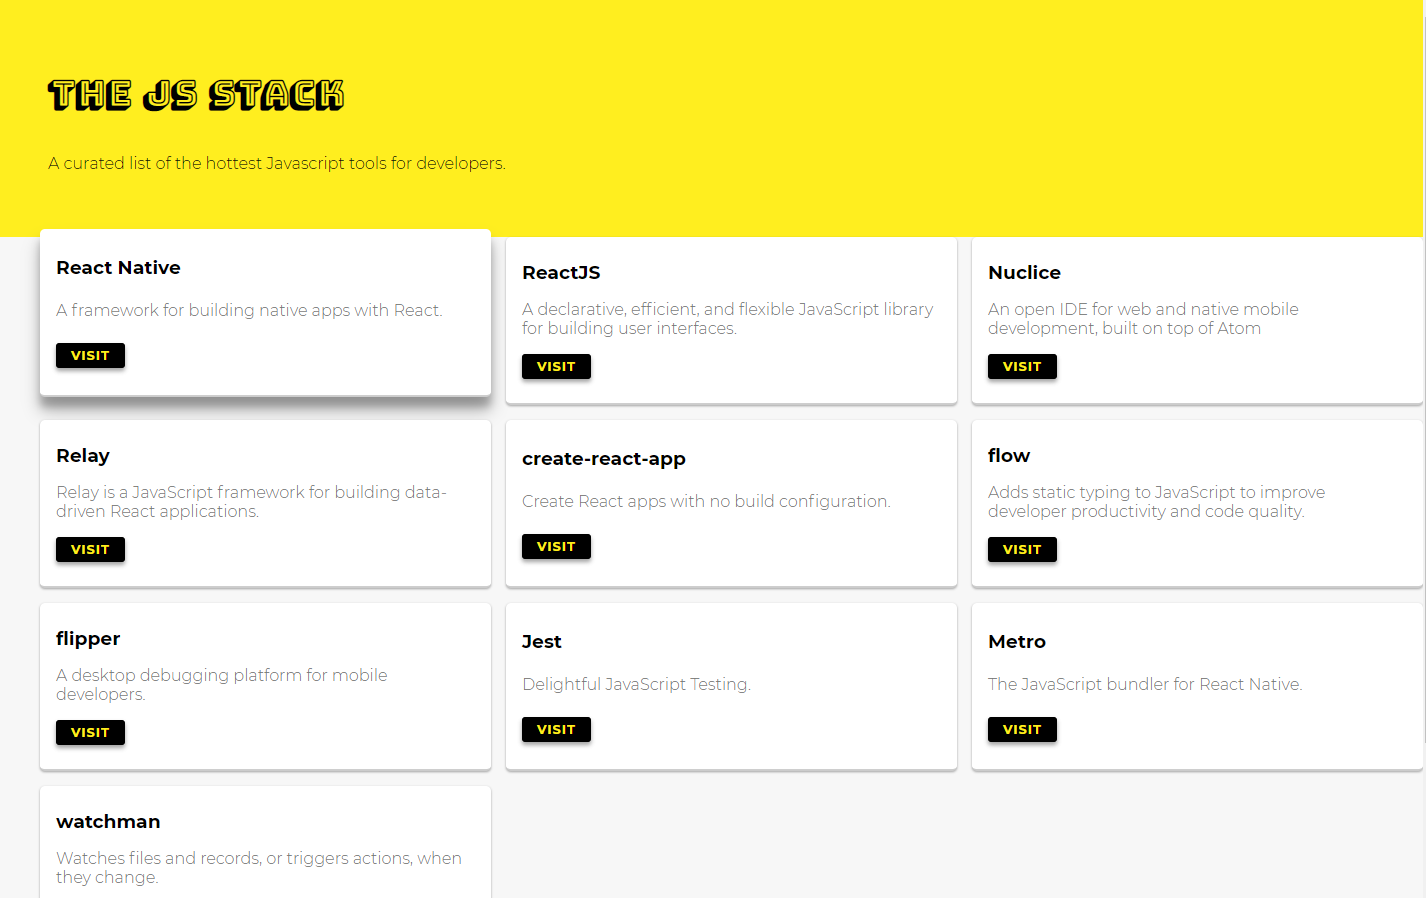
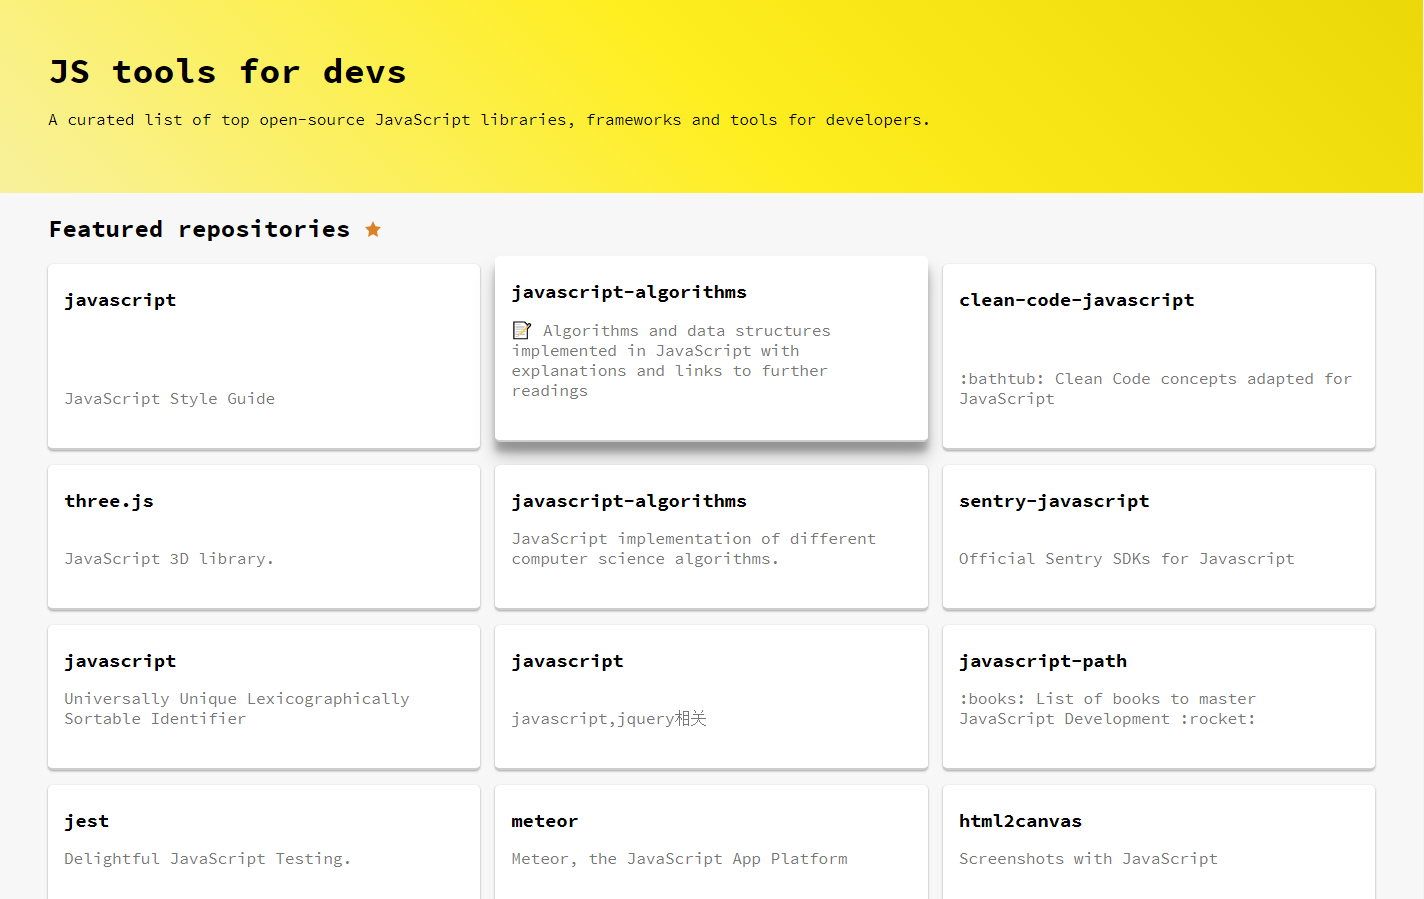
new packages, updated read.me and project image

diff --git a/src/components/RepositoriesList/Repository/index.js b/src/components/RepositoriesList/Repository/index.js
@@ -6,14 +6,30 @@ export default  class Repository extends Component {
     
     constructor(props) {
         super(props)
+        this.copyGitUrl = this.copyGitUrl.bind(this)
         this.showModal = this.showModal.bind(this)
         this.state = {
-            showModal: false
+            showModal: false,
+            copied: false
         }
     }
 
     showModal = () => {
         this.setState({ showModal: true })
+    }
+
+    copyGitUrl = () => {
+        const git_url = document.querySelector('#gitUrlClipboard')
+        let inputHidden = document.createElement('input')
+        inputHidden.value = git_url.innerText
+        document.body.appendChild(inputHidden)
+        inputHidden.select();
+        document.execCommand('copy');
+        document.body.removeChild(inputHidden);
+        this.setState({
+            copied: true
+        })
+
     }
 
     render() {
@@ -24,10 +40,11 @@ export default  class Repository extends Component {
                     <div className="dialog-container">
                         <h3 className="repo-name"><img className="repo-avatar" src={avatar_url} alt='User Avatar' />{full_name}</h3>
                         <p className="repo-description">{description}</p>
-                        <input type="text" value={git_url} /> 
+                        <span id="gitUrlClipboard" className="repo-git_url">{git_url} </span>
+                        <span className="copy-clipboard"><a href={git_url} onClick={this.copyGitUrl}><Icon icon="clipboard" marginLeft={12} style={{marginTop: '10px', position: 'relative', top: '0'}} color="muted" /> {this.state.copied ? 'Copied!' : 'Copy'}</a></span>
                         <ul className="repo-stats">
                             <li className="repo-stat">
-                                <span><Icon icon="star" color="warning" /> {stargazers_count} stars</span>
+                                <span><Icon icon="star" color="muted" /> {stargazers_count} stars</span>
                             </li>
                             <li className="repo-stat">
                                 <span><Icon icon="fork" color="muted" />  {forks_count} forks</span>
@@ -36,7 +53,7 @@ export default  class Repository extends Component {
                                 <span><Icon icon="issue-closed" color="muted" />  {open_issues_count} open issues</span>
                             </li>
                         </ul>
-                        <a className="repo-link" href={html_url}>GitHub repository</a>
+                        <a className="repo-link" target="_blank" href={html_url}>GitHub repository</a>
                     </div>
                 </Dialog>
                 <li className="repo-item" onClick={this.showModal}>

diff --git a/src/App.css b/src/App.css
@@ -25,7 +25,10 @@ body {
   font-weight: 300;
 }
 
-
+i {
+  position: relative;
+  bottom: 0px;
+}
 .container {
   padding: 0 3em;
 }
@@ -41,7 +44,7 @@ body {
 }
 
 .header h1 {
-  font-family: 'Bungee Shade', display;
+  font-family: 'Source Code Pro', monospace;
   font-weight: 700;  
   font-size: 2.2em;
   margin: 0;
@@ -105,8 +108,6 @@ body {
   box-shadow: 0 14px 28px rgba(0,0,0,0.25), 0 10px 10px rgba(0,0,0,0.22);
 }
 
-
-
 .dialog-container .repo-avatar {
   padding: 0;
   vertical-align: middle;
@@ -123,12 +124,16 @@ body {
   letter-spacing: 1px;
   cursor: pointer;
   font-size: .8em;
-  margin: 10px 0;
+  margin: 10px 0 20px 0;
   padding: 10px 15px;
   text-decoration: none;
   text-transform: uppercase;
   border-radius: 3px;
   box-shadow: 0 3px 6px rgba(0,0,0,0.16), 0 3px 6px rgba(0,0,0,0.23);
+}
+
+.dialog-container .repo-description {
+  margin-bottom: 30px;
 }
 
 .dialog-container .repo-stats {
@@ -147,9 +152,15 @@ body {
 
 .dialog-container .repo-git_url {
   padding: .7em;
-  margin: 10px 0; 
-  border: 2px solid #B5B5B5;
+  margin-top: 20px;
+  color: #777;
+  box-shadow: 0 3px 6px rgba(0,0,0,0.16), 0 3px 6px rgba(0,0,0,0.23);
   border-radius: 3px;
+}
+
+.dialog-container .copy-clipboard a {
+  color: #777;
+  text-decoration: none;
 }
 
 .pagination {

diff --git a/src/components/RepositoriesList/index.js b/src/components/RepositoriesList/index.js
@@ -2,7 +2,7 @@ import React, { Component } from 'react'
 import api from '../../services/api'
 import Repository from './Repository/index'
 import Pagination from "react-js-pagination"
-
+import { Icon } from 'evergreen-ui'
 
 export default class RepositoriesList extends Component {
 
@@ -49,7 +49,7 @@ export default class RepositoriesList extends Component {
     render() {
         return (
             <div className="container">
-                <h2>Featured repositories</h2> 
+                <h2>Featured repositories <Icon icon="star" color="warning" /></h2>
                 <ul className="repoList">
                     {
                         this.state.repos.map(repo => (

diff --git a/src/components/Header/index.js b/src/components/Header/index.js
@@ -5,8 +5,8 @@ const Header = () => {
         <React.Fragment>
            <header className="header">
               <div className="branding"> 
-                <h1>Tools for JS devs</h1>
-                <p>A curated list of top JavaScript tools for developers.</p>
+                <h1>JS tools for devs</h1>
+                <p>A curated list of top open-source JavaScript libraries, frameworks and tools for developers.</p>
               </div>
            </header> 
         </React.Fragment>

diff --git a/public/index.html b/public/index.html
@@ -19,7 +19,7 @@
       work correctly both with client-side routing and a non-root public URL.
       Learn how to configure a non-root public URL by running `npm run build`.
     -->
-    <title>Tools for JS devs.</title>
+    <title>JS tools for devs</title>
   </head>
   <body>
     <noscript>

diff --git a/README.md b/README.md
@@ -1,29 +1,30 @@
-# The JS Stack
+# JS tools for devs
 
-![the js stack homepage](https://github.com/matheuseabra/the-js-stack/blob/master/docs/homepage.png)
+![the js-tools-for-devs homepage](https://github.com/matheuseabra/js-tools-for-devs/blob/master/docs/homepage.png)
 
-A simple React app example displaying a list of the hottest Javascript tools for developers.
+A curated list of top open-source JavaScript libraries, frameworks and tools for developers.
 
 ## Live Demo
 
-[https://matheuseabra.github.io/the-js-stack](https://matheuseabra.github.io/the-js-stack)
+[https://matheuseabra.github.io/js-tools-for-devs](https://matheuseabra.github.io/js-tools-for-devs)
 
 ## Running locally
 
 Install project dependencies: 
 
--npm install
+- npm install
 
 Start the server:
 
--npm start
+- npm start
 
 ## Main dependencies
 -react
 -react-dom
 -react-router-dom
 -axios
--react-transition-group
+-ever-green-ui
+-react-js-pagination
 -gh-pages
 
 ## Contributing
